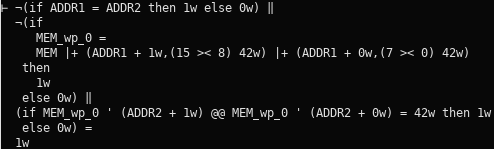
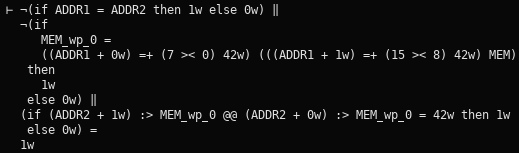
Changed image that used new fmap-based memories

diff --git a/main.tex b/main.tex
@@ -1314,7 +1314,7 @@ x = load(MEM, ADDR2)
 \begin{figure}[!h]
 	\includegraphics[width=\textwidth]{figures/test_addreq_words.png}
 	\centering
-	\caption{$P \implies \WP$ expression translated in \textit{wordsTheory} for the \textit{load and store} test. \texttt{><} is the bitwise extraction operation, \texttt{@@} the word concatenation operation, \texttt{|+} the memory update operation and \texttt{\textquotesingle} the memory load operation. Bit extraction and concatenation is needed because we are working with 16-bit words in a 8-bit memory.}
+	\caption{$P \implies \WP$ expression translated in \textit{wordsTheory} for the \textit{load and store} test. \texttt{><} is the bitwise extraction operation, \texttt{@@} the word concatenation operation, \texttt{=+} the memory update operation and \texttt{:>} the memory load operation (cf. Section \ref{bir-memories-with-smt-solvers}). Bit extraction and concatenation is needed because we are working with 16-bit words in a 8-bit memory.}
 	\label{test_addreq_words}
 \end{figure}
 
